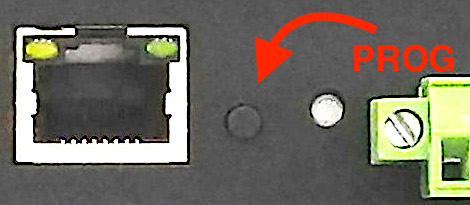
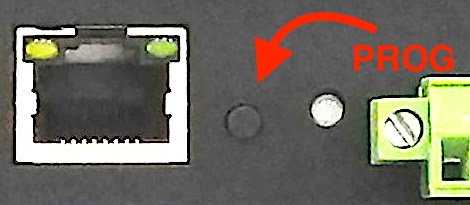
Fix typo on RK3568 OS Downloads
Also rename a image, since Sphinx complains "Warning: image file not readable: Media/ARM/A55/CS12800-RK3568-101P/PROG_Button.jpg" on our build system.

diff --git a/docs/source/PCs/ARM/RK3568/OS_Downloads/CS10600-RK3568-070P.rst b/docs/source/PCs/ARM/RK3568/OS_Downloads/CS10600-RK3568-070P.rst
@@ -25,8 +25,8 @@ Debian11
 
 .. _CS10600P-linuxQt:
 
-Buildroot LinuxQt5.14
----------------------
+Buildroot Linux Qt 5.15
+-----------------------
 
 | :download:`prebuilt-rk3568-cs10600-mipi-buildroot-qt515-20230404.img.xz <https://chipsee-tmp.s3.amazonaws.com/mksdcardfiles/RK3568/7/BuildrootLinuxQt5.15/prebuilt-rk3568-cs10600-mipi-buildroot-qt515-20230404.img.xz>`
 

diff --git a/docs/source/PCs/ARM/RK3568/Manuals/Hardware/CS10768-RK3568-150P.rst b/docs/source/PCs/ARM/RK3568/Manuals/Hardware/CS10768-RK3568-150P.rst
@@ -92,7 +92,7 @@
                   :align: middle
                   :width: 192
 
-.. |PROG_btn_img| image:: /Media/ARM/A55/CS10768-RK3568-150P/PROG_Button.jpg
+.. |PROG_btn_img| image:: /Media/ARM/A55/CS10768-RK3568-150P/Prog_Button.jpg
                   :align: middle
                   :width: 192                 
 

diff --git a/docs/source/PCs/ARM/RK3568/Manuals/Hardware/CS19108-RK3568-133P.rst b/docs/source/PCs/ARM/RK3568/Manuals/Hardware/CS19108-RK3568-133P.rst
@@ -92,7 +92,7 @@
                   :align: middle
                   :width: 192
 
-.. |PROG_btn_img| image:: /Media/ARM/A55/CS19108-RK3568-133P/PROG_Button.jpg
+.. |PROG_btn_img| image:: /Media/ARM/A55/CS19108-RK3568-133P/Prog_Button.jpg
                   :align: middle
                   :width: 192
 

diff --git a/docs/source/PCs/ARM/RK3568/Manuals/Hardware/CS12800-RK3568-101P.rst b/docs/source/PCs/ARM/RK3568/Manuals/Hardware/CS12800-RK3568-101P.rst
@@ -92,7 +92,7 @@
                   :align: middle
                   :width: 96
 
-.. |PROG_btn_img| image:: /Media/ARM/A55/CS12800-RK3568-101P/PROG_Button.jpg
+.. |PROG_btn_img| image:: /Media/ARM/A55/CS12800-RK3568-101P/Prog_Button.jpg
                   :align: middle
                   :width: 192
 

diff --git a/docs/source/PCs/ARM/RK3568/OS_Downloads/CS12720-RK3568-050P.rst b/docs/source/PCs/ARM/RK3568/OS_Downloads/CS12720-RK3568-050P.rst
@@ -22,8 +22,8 @@ Debian11
 
 .. _CS12720P-linuxQt:
 
-Buildroot LinuxQt5.14
----------------------
+Buildroot Linux Qt 5.15
+-----------------------
 
 
 

diff --git a/docs/source/PCs/ARM/RK3568/OS_Downloads/CS12800-RK3568-101P.rst b/docs/source/PCs/ARM/RK3568/OS_Downloads/CS12800-RK3568-101P.rst
@@ -25,8 +25,8 @@ Debian11
 
 .. _CS12800P-linuxQt:
 
-Buildroot LinuxQt5.14
----------------------
+Buildroot Linux Qt 5.15
+-----------------------
 
 
 
